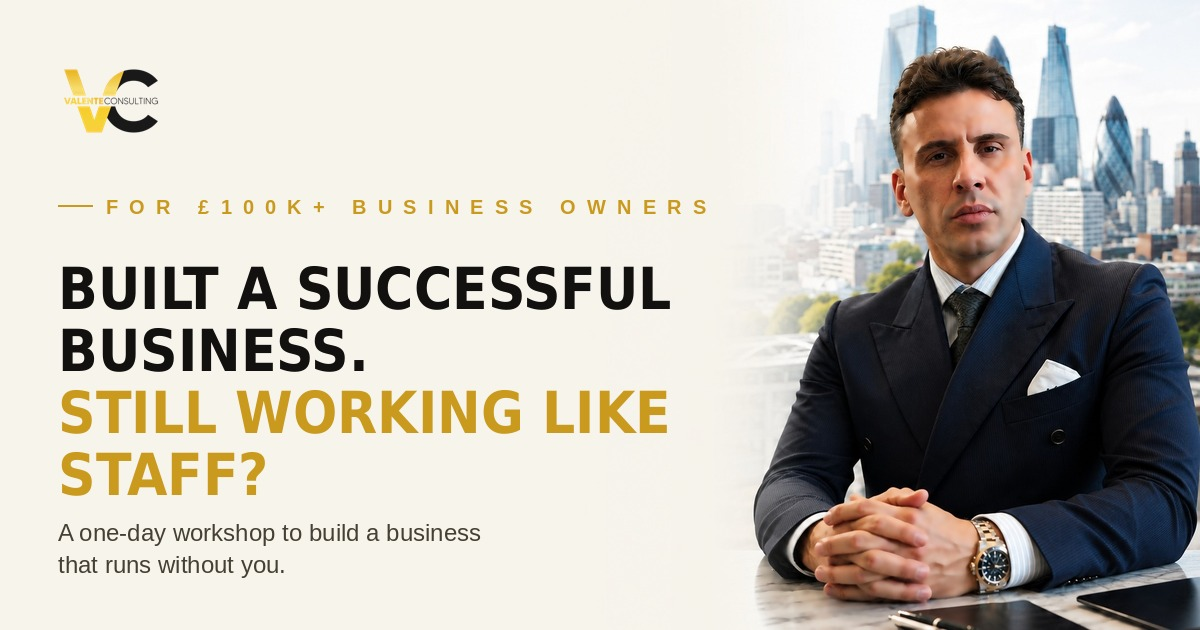
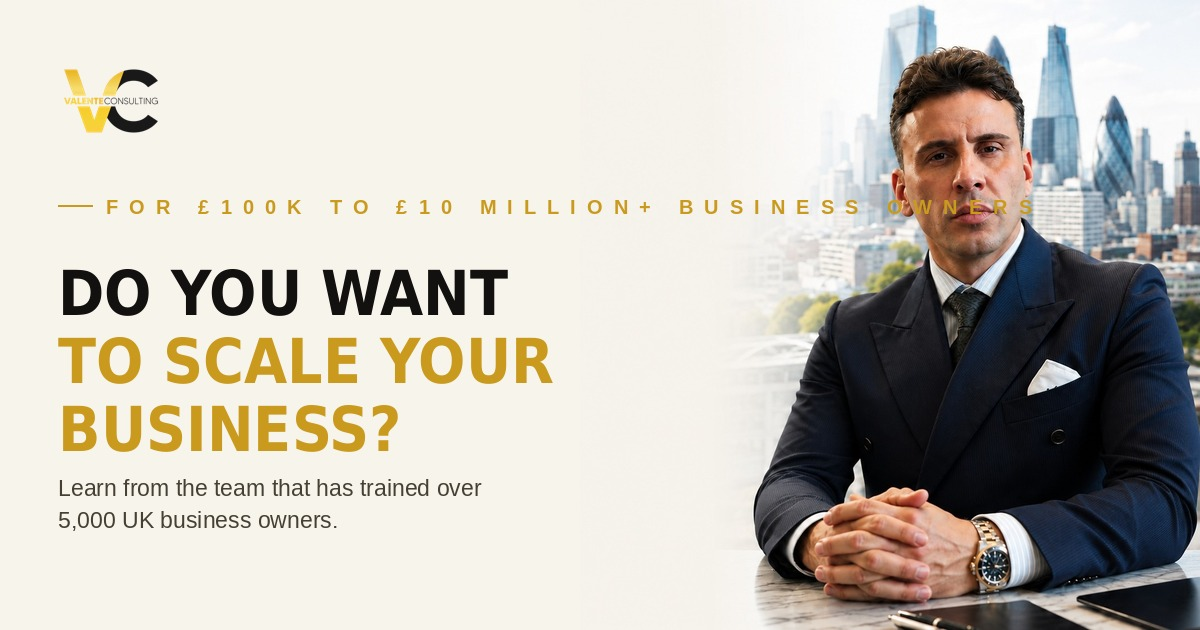
Add files via upload

diff --git a/index.html b/index.html
@@ -884,12 +884,12 @@
   <div class="wrap">
     <div class="hero-copy">
       <p class="eyebrow hero-kicker">For £100k to £10 Million+ Business Owners</p>
-      <h1>Are you the thing<span class="accent">limiting your business?</span></h1>
-      <p class="lede" id="heroLede">Learn how to step out of the day-to-day, build the right systems and create a business that grows without you holding everything together.</p>
+      <h1>Do you want<span class="accent">to scale your business?</span></h1>
+      <p class="lede" id="heroLede">Learn from the team that has trained over 5,000 UK business owners.</p>
       <p class="hero-credential">Winner, BBC's <em>The Apprentice</em>, 2015</p>
-      <p class="hero-trust"><span class="trust-tick">✓</span> Trusted by 10,000+ UK business owners</p>
+      <p class="hero-trust"><span class="trust-tick">✓</span> Trusted by 5,000+ UK business owners</p>
       <div class="hero-ctas">
-        <a href="#reserve" class="btn btn-primary"><svg width="15" height="15" viewBox="0 0 24 24" fill="none" stroke="currentColor" stroke-width="2"><rect x="3" y="5" width="18" height="16" rx="2"/><path d="M8 3v4M16 3v4M3 10h18"/></svg> Are You Ready to Scale Up?</a>
+        <a href="#reserve" class="btn btn-primary"><svg width="15" height="15" viewBox="0 0 24 24" fill="none" stroke="currentColor" stroke-width="2"><rect x="3" y="5" width="18" height="16" rx="2"/><path d="M8 3v4M16 3v4M3 10h18"/></svg> I'm Ready to Scale</a>
         <a href="#stories" class="btn-ghost" id="watchStoriesBtn"><span class="play">▶</span> Watch Success Stories</a>
       </div>
     </div>
@@ -912,7 +912,7 @@
     </div>
     <div class="stat-card reveal">
       <div class="stat-icon"><svg width="26" height="26" viewBox="0 0 24 24" fill="none" stroke="currentColor" stroke-width="2.2"><circle cx="9" cy="8" r="3"/><path d="M2 21c0-4 3-6 7-6s7 2 7 6"/><circle cx="18" cy="9" r="2.4"/><path d="M16 21c.3-3 2-4.5 5-4.7"/></svg></div>
-      <div class="stat-num">10,000+</div>
+      <div class="stat-num">5,000+</div>
       <div class="stat-label">Business Owners Mentored</div>
     </div>
     <div class="stat-card reveal">
